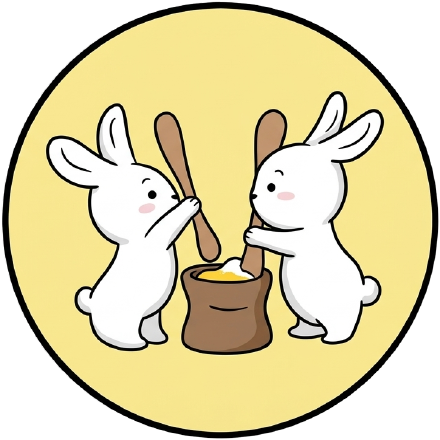
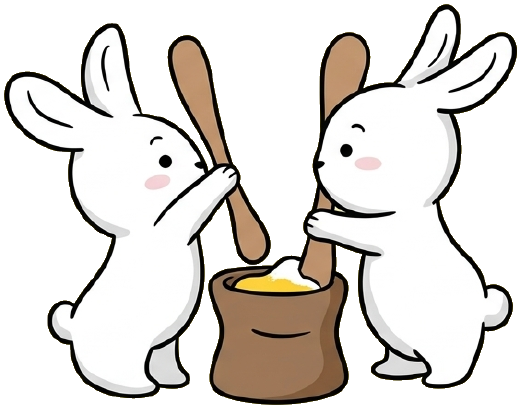
feat: 달을 걷어 내고 토끼만 남긴다
노란 원과 검은 테두리를 지우고 토끼·절구·공이만 남겼다.
히어로에는 이미 보름달이 따로 떠 있어 원반이 겹쳐 보였다.

지우는 방법 — 테두리 고리는 두께가 12 남짓이라 중심에서 343 바깥을
잘라 냈다. 토끼에서 가장 먼 점인 귀 끝이 309 라 안전하다. 노란 바탕은
색이 이어진 덩어리를 씨앗에서 번져 나가며 지웠다. 절구 속 떡은
(250,207,60) 으로 바탕 노랑 (248,231,144) 보다 훨씬 진하고, 절구
윤곽으로 막혀 있어 같이 지워지지 않는다.

564x443 로 잘려 520 으로 줄였다. 137KB.
흰 바탕에서도 검은 윤곽 덕에 읽힌다. 네 자리 모두 확인했다.

diff --git a/themes/motifs.js b/themes/motifs.js
@@ -35,8 +35,9 @@
      흰 몸에 굵은 먹선, 긴 귀, 볼 홍조. 오른쪽 토끼는 왼쪽을 뒤집어 쓴다. */
   /* ── 달토끼 ──────────────────────────────────────────────────────
      이것만 그림 파일을 쓴다. 나머지 모티프는 전부 코드로 그린다.
-     받은 원본은 격자무늬가 픽셀로 박혀 있어, 원만 오려 내고 바깥을
-     투명하게 만든 것을 쓴다. 원본은 같은 폴더에 -source 로 남겨 뒀다.
+     받은 원본은 격자무늬가 화소로 박혀 있었다. 노란 달과 검은 테두리를
+     걷어 내고 토끼·절구·공이만 남겨 바깥을 투명으로 돌린 것을 쓴다.
+     원본은 같은 폴더에 -source 로 남겨 뒀다.
      주소는 뿌리에서 잡는다. 404 처럼 없는 주소로 들어온 화면에서도
      상대 경로가 어긋나지 않는다. */
   var RABBIT_SRC = '/images/season/chuseok-rabbit.png';
@@ -46,7 +47,7 @@
 
   function rabbit(cls) {
     return '<img class="sn-m-rabbit ' + (cls || '') + '" src="' + RABBIT_SRC + '" ' +
-      'alt="" aria-hidden="true" decoding="async" width="440" height="440">';
+      'alt="" aria-hidden="true" decoding="async" width="520" height="408">';
   }
 
   /* ── 송편 — 반달 모양. 쑥·치자·흰·분홍으로 빚는다 ──────────────── */

diff --git a/themes/chuseok/theme.css b/themes/chuseok/theme.css
@@ -172,7 +172,7 @@
    글은 가운데로 모이고 좌우가 비어 있다. 그 자리에 하나씩 놓는다. */
 .sn-hero-art { position: absolute; pointer-events: none; }
 .sn-hero-art svg { width: 100%; height: auto; }
-.sn-hero-rabbit    { left: 5%;  top: 47%; width: 134px; opacity: .95; }
+.sn-hero-rabbit    { left: 4%;  top: 47%; width: 158px; opacity: .95; }
 .sn-hero-songpyeon { right: 6%; top: 50%; width: 186px; opacity: .95; }
 
 /* ── 청사초롱 — 솔가지에 매단다. 줄은 위로 뻗어 가지에 닿는다 ── */
@@ -480,7 +480,7 @@
   .sn-404-art { width: 168px; }
   .sn-404-title { font-size: 21px; }
 
-  .sn-hero-rabbit { width: 84px; left: 4%; top: 46%; }
+  .sn-hero-rabbit { width: 98px; left: 3%; top: 46%; }
   .sn-hero-songpyeon { display: none; }
   .sn-lantern-a { left: 72px; top: 112px; width: 34px; }
   .sn-lantern-a::before { height: 62px; }
